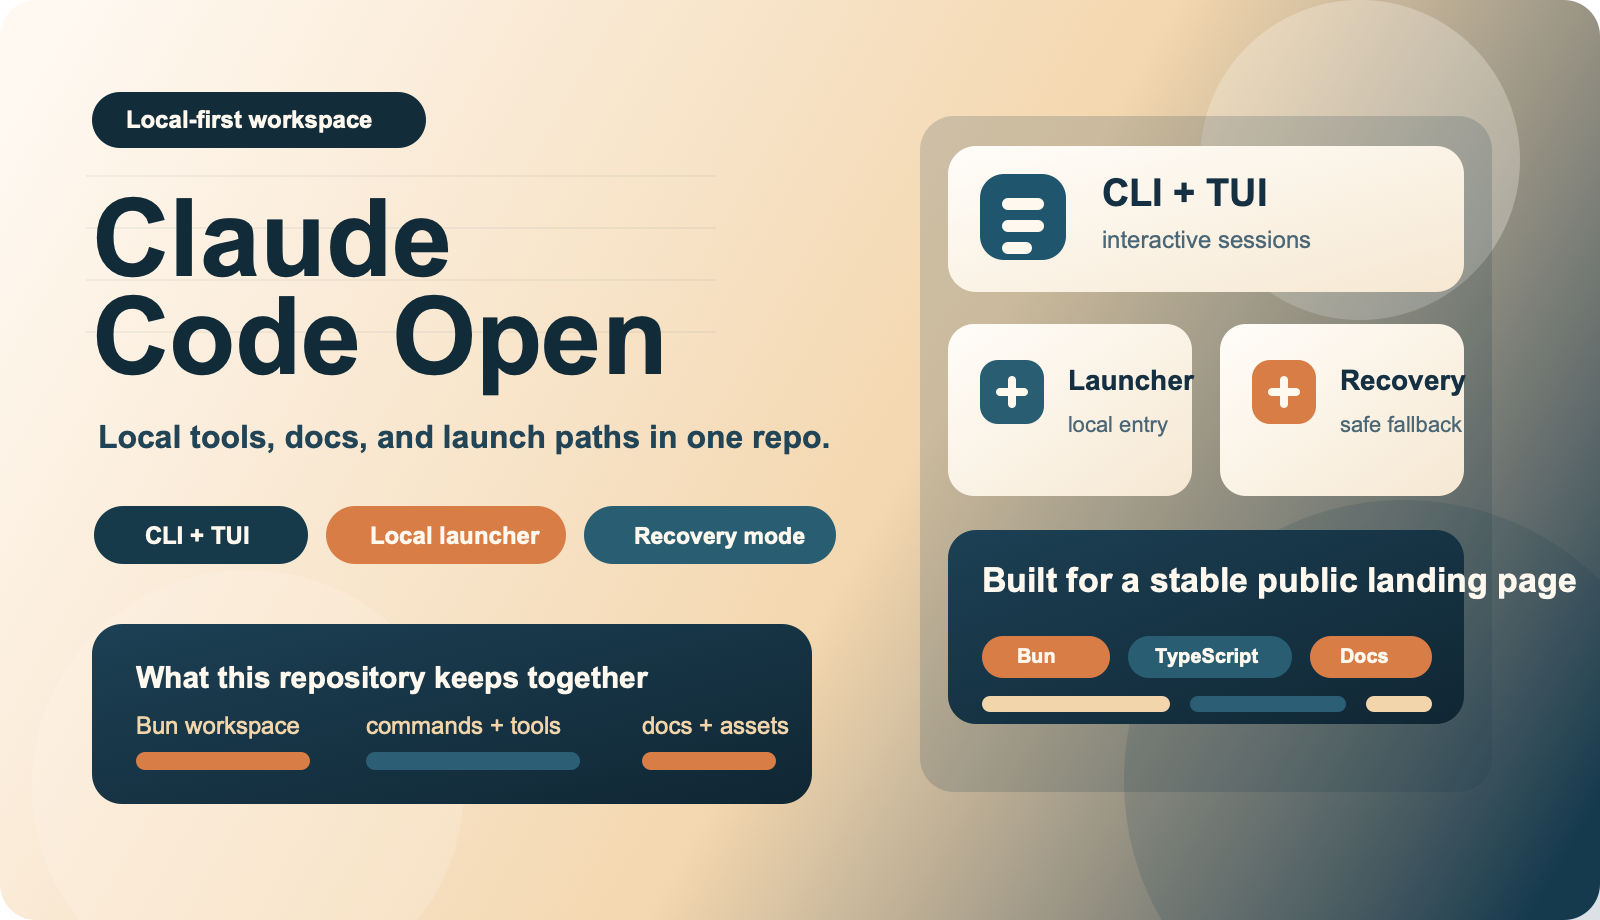
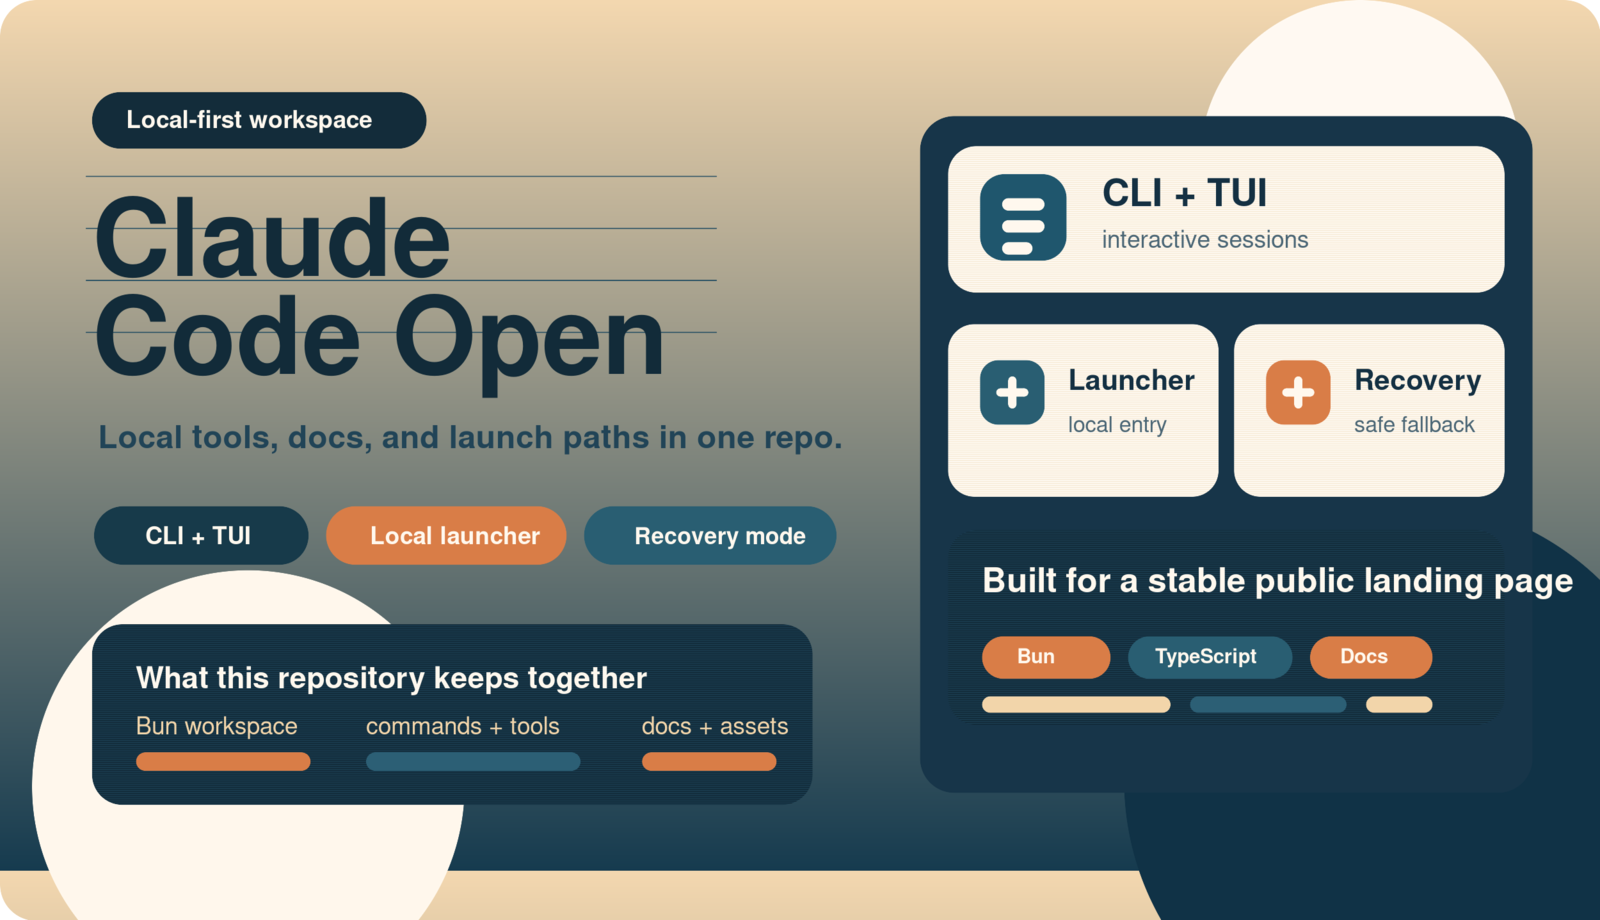
fix: make images responsive and redraw all architecture diagrams
- README images: replace fixed width="820" with width="100%"
- MDX docs images: add maxWidth/height style for Frame containers
- Hero image: fix right-side card overflow (Launcher/Recovery)
- Redraw all 9 runtime-snapshots with bilingual labels

diff --git a/README.md b/README.md
@@ -11,7 +11,7 @@
 </p>
 
 <p align="center">
-  <img src="./docs/fusion-assets/readme-hero.png" alt="Claude Code Open Hero" width="820" />
+  <img src="./docs/fusion-assets/readme-hero.png" alt="Claude Code Open Hero" width="100%" />
 </p>
 
 ## 项目定位
@@ -36,7 +36,7 @@
 ## 界面预览
 
 <p align="center">
-  <img src="./docs/fusion-assets/readme-preview.png" alt="Preview Wall" width="820" />
+  <img src="./docs/fusion-assets/readme-preview.png" alt="Preview Wall" width="100%" />
 </p>
 
 完整运行截图保留在 [`docs/runtime-snapshots/`](./docs/runtime-snapshots/) 目录里，README 首页只展示统一风格的预览板，避免 GitHub 上出现比例和视觉重量不一致的问题。`docs/fusion-assets/` 同时保留了 PNG 展示图和 SVG 源文件。
@@ -44,7 +44,7 @@
 ## 架构与能力
 
 <p align="center">
-  <img src="./docs/fusion-assets/readme-stack.png" alt="Feature Map" width="820" />
+  <img src="./docs/fusion-assets/readme-stack.png" alt="Feature Map" width="100%" />
 </p>
 
 这套仓库现在更接近“可继续维护的工程版 + 好上手的本地版”组合：
@@ -155,7 +155,7 @@ preload.ts              # 本地启动预加载
 ## 路线图
 
 <p align="center">
-  <img src="./docs/fusion-assets/readme-path.png" alt="Roadmap" width="820" />
+  <img src="./docs/fusion-assets/readme-path.png" alt="Roadmap" width="100%" />
 </p>
 
 后续更适合继续推进这些方向：

diff --git a/README.en.md b/README.en.md
@@ -11,7 +11,7 @@
 </p>
 
 <p align="center">
-  <img src="./docs/fusion-assets/readme-hero.png" alt="Claude Code Open Hero" width="820" />
+  <img src="./docs/fusion-assets/readme-hero.png" alt="Claude Code Open Hero" width="100%" />
 </p>
 
 ## Overview
@@ -35,7 +35,7 @@ This repository combines the strengths of a runnable local setup and a larger en
 ## Preview
 
 <p align="center">
-  <img src="./docs/fusion-assets/readme-preview.png" alt="Preview Wall" width="820" />
+  <img src="./docs/fusion-assets/readme-preview.png" alt="Preview Wall" width="100%" />
 </p>
 
 Full-size reference screenshots are still available in [`docs/runtime-snapshots/`](./docs/runtime-snapshots/), and `docs/fusion-assets/` keeps both PNG display assets and SVG source files.
